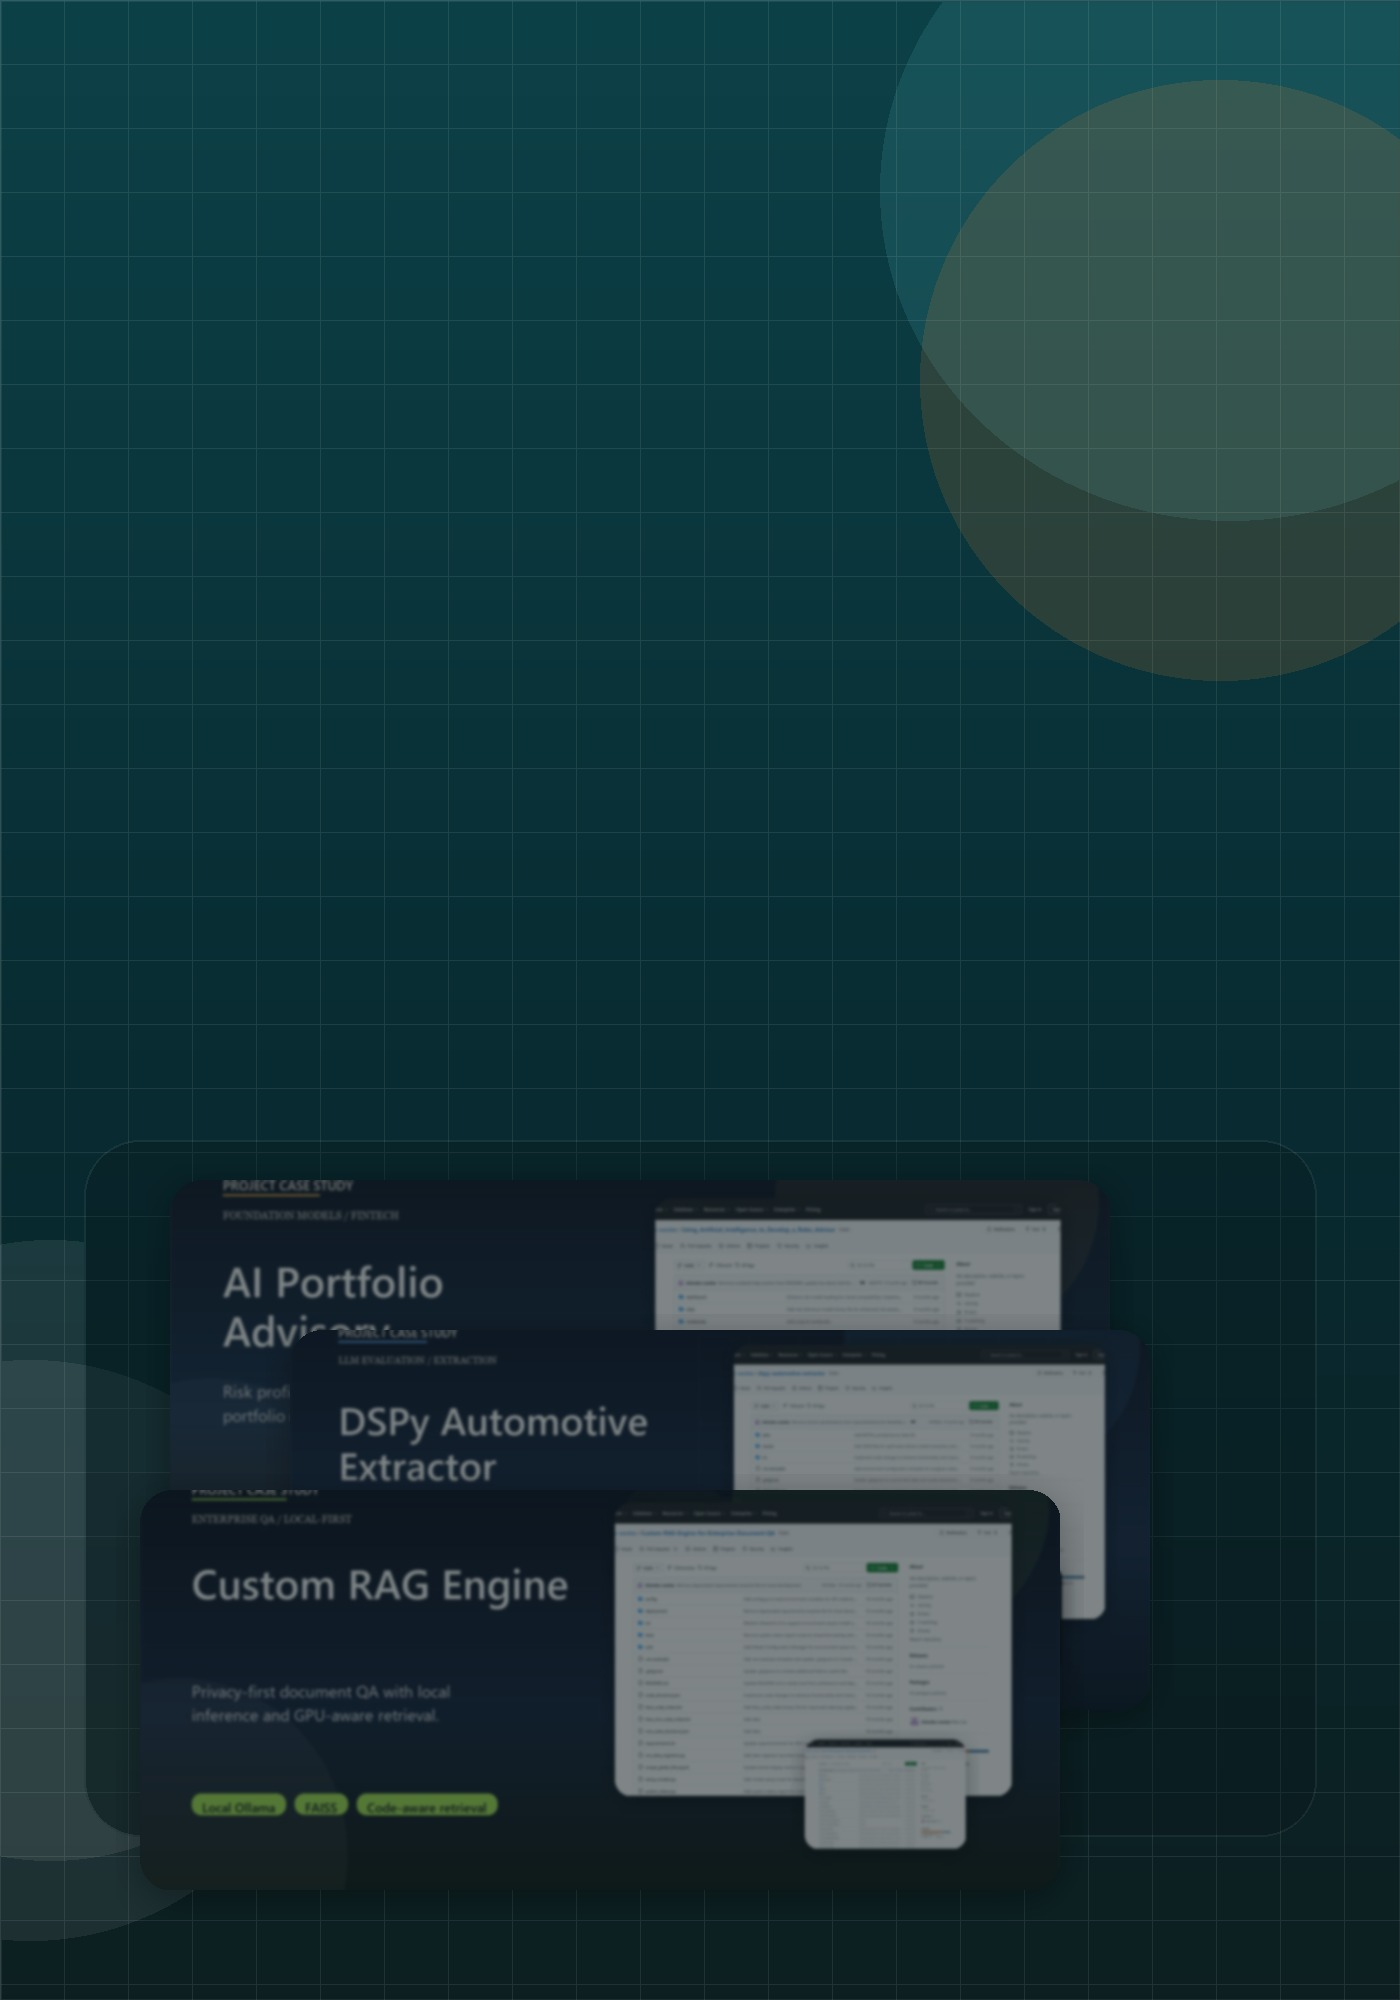
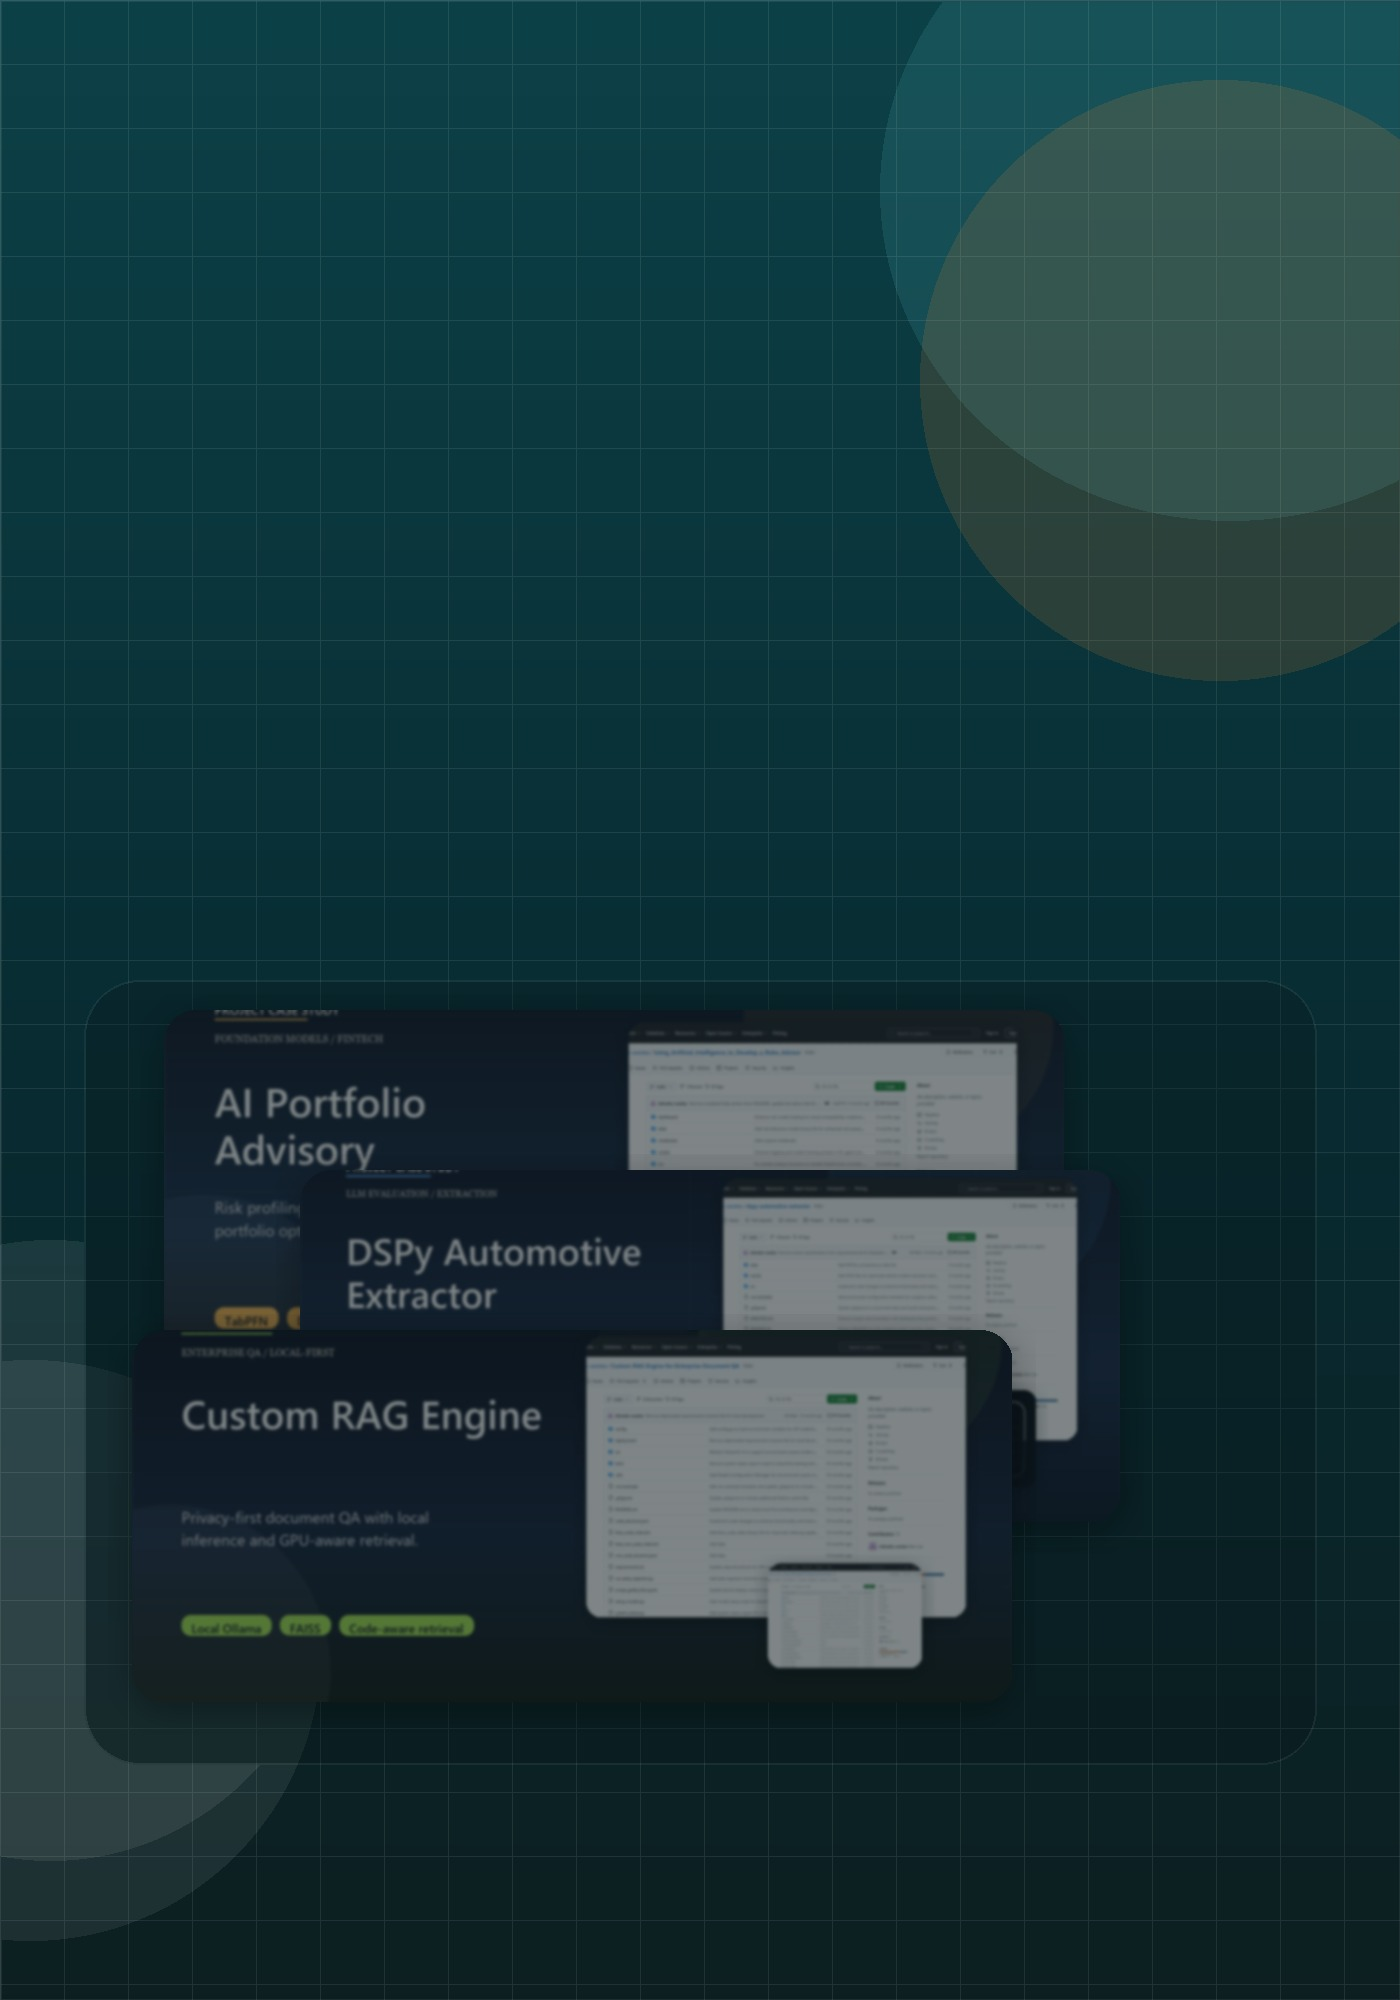
fix: improve responsive layout across viewport sizes

Changed region(s): [[0.0614, 0.496, 0.7986, 0.93]]

diff --git a/assets/css/custom.css b/assets/css/custom.css
@@ -1907,13 +1907,71 @@ html.home-landing-page body {
     display: none !important;
   }
 
+  #_sidebar .sidebar-bg.sidebar-overlay {
+    background-position: center bottom !important;
+    background-repeat: no-repeat !important;
+    background-size: auto 100% !important;
+  }
+
   main.content[class*="layout-"] {
-    width: min(1100px, calc(100vw - 31rem)) !important;
+    width: min(1660px, calc(100vw - clamp(360px, 22vw, 420px) - clamp(36px, 4vw, 80px) - clamp(36px, 4vw, 80px))) !important;
     max-width: none !important;
-    margin-left: 400px !important;
-    margin-right: auto !important;
-    padding-left: 16px !important;
-    padding-right: 16px !important;
+    margin-left: clamp(360px, 22vw, 420px) !important;
+    margin-right: clamp(36px, 4vw, 80px) !important;
+    padding-left: clamp(18px, 1.6vw, 28px) !important;
+    padding-right: clamp(18px, 1.6vw, 28px) !important;
+  }
+
+  .home-hero {
+    grid-template-columns: minmax(0, 1fr) minmax(360px, 38rem);
+  }
+
+  .home-hero__copy {
+    max-width: 48rem;
+  }
+
+  .home-hero__frame {
+    padding: 1rem;
+  }
+
+  .home-hero__frame img {
+    aspect-ratio: 1.18;
+  }
+
+  .home-hero__visual {
+    gap: 1.1rem;
+  }
+
+  .home-feature-grid,
+  .home-writing-grid {
+    gap: 1.5rem;
+  }
+}
+
+@media (min-width: 1600px) {
+  .home-hero {
+    gap: clamp(2.5rem, 4vw, 4rem);
+    padding: clamp(2rem, 3vw, 3rem);
+  }
+
+  .home-hero__frame img {
+    aspect-ratio: 1.24;
+  }
+
+  .home-feature {
+    padding: 1.5rem;
+  }
+
+  .home-writing {
+    padding: 1.2rem;
+  }
+}
+
+@media (max-width: 1199px) {
+  #_sidebar .sidebar-bg.sidebar-overlay {
+    background-position: center bottom !important;
+    background-repeat: no-repeat !important;
+    background-size: auto 100% !important;
   }
 }
 

diff --git a/scripts/generate_editorial_images.py b/scripts/generate_editorial_images.py
@@ -399,7 +399,7 @@ def compose_sidebar_background() -> None:
 
     draw.ellipse((width - 480, 80, width + 120, 680), fill=(255, 139, 43, 34))
     draw.ellipse((-240, height - 760, 340, height - 140), fill=(255, 255, 255, 20))
-    draw.rounded_rectangle((84, 1140, 1316, 1836), radius=56, fill=(7, 20, 24, 72), outline=(255, 255, 255, 14), width=2)
+    draw.rounded_rectangle((84, 980, 1316, 1764), radius=56, fill=(7, 20, 24, 72), outline=(255, 255, 255, 14), width=2)
     canvas.alpha_composite(overlay)
 
     muted_covers = [
@@ -407,8 +407,8 @@ def compose_sidebar_background() -> None:
         PROJECT_COVERS_DIR / "dspy-automotive-extractor.jpg",
         PROJECT_COVERS_DIR / "rag-engine-project.jpg",
     ]
-    positions = [(170, 1180), (290, 1330), (140, 1490)]
-    sizes = [(940, 420), (860, 380), (920, 400)]
+    positions = [(164, 1010), (300, 1170), (132, 1330)]
+    sizes = [(900, 392), (820, 352), (880, 372)]
 
     for path, position, size in zip(muted_covers, positions, sizes):
         if not path.exists():
